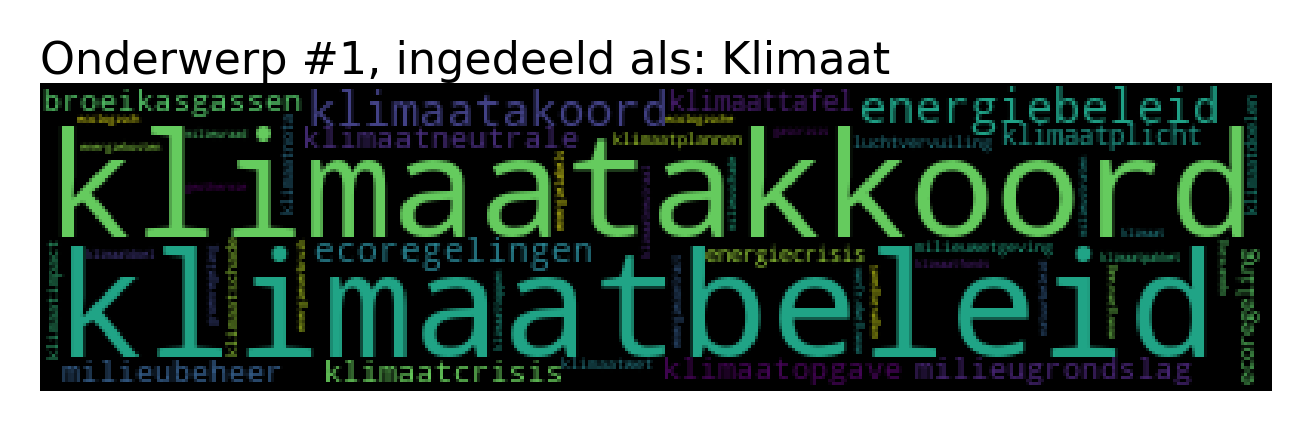
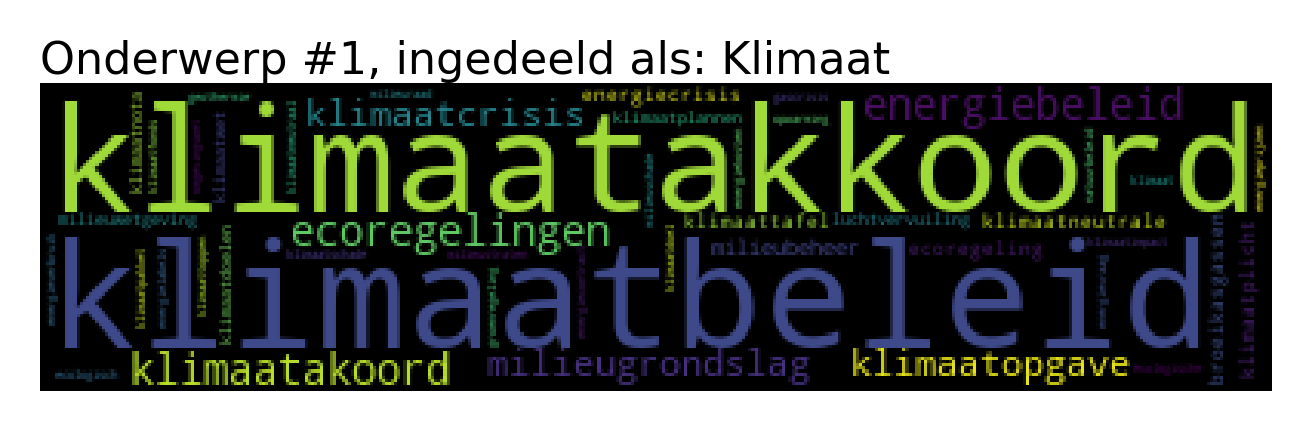
Built site for gh-pages

diff --git a/posts/moties2023/2023-09-23-kamermoties_topics.html b/posts/moties2023/2023-09-23-kamermoties_topics.html
@@ -85,11 +85,15 @@ ga('send', {
 <link rel="stylesheet" href="../../styles.css">
 <meta property="og:title" content="Blog Jesse van Elteren - Tekst analyse van Tweede Kamer moties">
 <meta property="og:description" content="Wie zet wat op de agenda?">
-<meta property="og:image" content="https://jvanelteren.github.io/blog/posts/moties2023/moties_glass.png">
+<meta property="og:image" content="https://jvanelteren.github.io/blog/posts/moties2023/cat_glass.png">
 <meta property="og:site-name" content="Blog Jesse van Elteren">
+<meta property="og:image:height" content="496">
+<meta property="og:image:width" content="800">
 <meta name="twitter:title" content="Blog Jesse van Elteren - Tekst analyse van Tweede Kamer moties">
 <meta name="twitter:description" content="Wie zet wat op de agenda?">
-<meta name="twitter:image" content="https://jvanelteren.github.io/blog/posts/moties2023/moties_glass.png">
+<meta name="twitter:image" content="https://jvanelteren.github.io/blog/posts/moties2023/cat_glass.png">
+<meta name="twitter:image-height" content="496">
+<meta name="twitter:image-width" content="800">
 <meta name="twitter:card" content="summary_large_image">
 </head>
 
@@ -196,27 +200,27 @@ ga('send', {
 <li>Aantal succesvolle moties</li>
 <li>Aantal succesvolle moties per zetel</li>
 </ol>
-<div id="cell-9" class="cell" data-execution_count="62">
-<div class="cell-output cell-output-display" data-execution_count="62">
+<div id="cell-9" class="cell" data-execution_count="110">
+<div class="cell-output cell-output-display" data-execution_count="110">
 
 <style>
-  #altair-viz-73504d512a9747b691b38f76f1c84e54.vega-embed {
+  #altair-viz-6972dd20e3d5451c903cecfc61536758.vega-embed {
     width: 100%;
     display: flex;
   }
 
-  #altair-viz-73504d512a9747b691b38f76f1c84e54.vega-embed details,
-  #altair-viz-73504d512a9747b691b38f76f1c84e54.vega-embed details summary {
+  #altair-viz-6972dd20e3d5451c903cecfc61536758.vega-embed details,
+  #altair-viz-6972dd20e3d5451c903cecfc61536758.vega-embed details summary {
     position: relative;
   }
 </style>
-<div id="altair-viz-73504d512a9747b691b38f76f1c84e54"></div>
+<div id="altair-viz-6972dd20e3d5451c903cecfc61536758"></div>
 <script type="text/javascript">
   var VEGA_DEBUG = (typeof VEGA_DEBUG == "undefined") ? {} : VEGA_DEBUG;
   (function(spec, embedOpt){
     let outputDiv = document.currentScript.previousElementSibling;
-    if (outputDiv.id !== "altair-viz-73504d512a9747b691b38f76f1c84e54") {
-      outputDiv = document.getElementById("altair-viz-73504d512a9747b691b38f76f1c84e54");
+    if (outputDiv.id !== "altair-viz-6972dd20e3d5451c903cecfc61536758") {
+      outputDiv = document.getElementById("altair-viz-6972dd20e3d5451c903cecfc61536758");
     }
     const paths = {
       "vega": "https://cdn.jsdelivr.net/npm/vega@5?noext",
@@ -267,28 +271,28 @@ ga('send', {
 </div>
 </div>
 <p>In bovenstaande grafiek zien we bijvoorbeeld dat op de PvdD de meeste moties indient op Landbouw &amp; Milieu, gevolgd door BBB, D66 en GroenLinks. De standpunten van de partijen kunnen natuurlijk verschillen!</p>
-<p>PVV dient veel moties in op het gebied van asiel. Terwijl de SP op meerdere onderwerpen op 1 staat. Maar ingediend is niet hetzelfde als aangenomen:</p>
-<div id="cell-11" class="cell" data-execution_count="66">
-<div class="cell-output cell-output-display" data-execution_count="66">
+<p>PVV dient veel moties in op het gebied van asiel. Terwijl de SP bij 4 onderwerpen het meeste moties heeft ingediend. Maar ingediend is niet hetzelfde als aangenomen:</p>
+<div id="cell-11" class="cell" data-execution_count="111">
+<div class="cell-output cell-output-display" data-execution_count="111">
 
 <style>
-  #altair-viz-b98af6b8103e42e8bc366b661ac8ecb3.vega-embed {
+  #altair-viz-eb74d616a0cd43da9831fe19471e5248.vega-embed {
     width: 100%;
     display: flex;
   }
 
-  #altair-viz-b98af6b8103e42e8bc366b661ac8ecb3.vega-embed details,
-  #altair-viz-b98af6b8103e42e8bc366b661ac8ecb3.vega-embed details summary {
+  #altair-viz-eb74d616a0cd43da9831fe19471e5248.vega-embed details,
+  #altair-viz-eb74d616a0cd43da9831fe19471e5248.vega-embed details summary {
     position: relative;
   }
 </style>
-<div id="altair-viz-b98af6b8103e42e8bc366b661ac8ecb3"></div>
+<div id="altair-viz-eb74d616a0cd43da9831fe19471e5248"></div>
 <script type="text/javascript">
   var VEGA_DEBUG = (typeof VEGA_DEBUG == "undefined") ? {} : VEGA_DEBUG;
   (function(spec, embedOpt){
     let outputDiv = document.currentScript.previousElementSibling;
-    if (outputDiv.id !== "altair-viz-b98af6b8103e42e8bc366b661ac8ecb3") {
-      outputDiv = document.getElementById("altair-viz-b98af6b8103e42e8bc366b661ac8ecb3");
+    if (outputDiv.id !== "altair-viz-eb74d616a0cd43da9831fe19471e5248") {
+      outputDiv = document.getElementById("altair-viz-eb74d616a0cd43da9831fe19471e5248");
     }
     const paths = {
       "vega": "https://cdn.jsdelivr.net/npm/vega@5?noext",
@@ -339,27 +343,27 @@ ga('send', {
 </div>
 </div>
 <p>Wat betreft het aantal succesvolle moties dan zien we daar ineens vier partijen bovendrijven: CDA, ChristenUnie, D66 en VVD. De regeringspartijen, dat is logisch want die hebben een meerderheid. Nu kijken we naar het aantal succesvolle moties <strong>per zetel</strong></p>
-<div id="cell-14" class="cell" data-execution_count="69">
-<div class="cell-output cell-output-display" data-execution_count="69">
+<div id="cell-14" class="cell" data-execution_count="113">
+<div class="cell-output cell-output-display" data-execution_count="113">
 
 <style>
-  #altair-viz-f05a1fbaed7d4b5b8d5cfe694f275d69.vega-embed {
+  #altair-viz-e45aa36549784837b013b2ac17b937d3.vega-embed {
     width: 100%;
     display: flex;
   }
 
-  #altair-viz-f05a1fbaed7d4b5b8d5cfe694f275d69.vega-embed details,
-  #altair-viz-f05a1fbaed7d4b5b8d5cfe694f275d69.vega-embed details summary {
+  #altair-viz-e45aa36549784837b013b2ac17b937d3.vega-embed details,
+  #altair-viz-e45aa36549784837b013b2ac17b937d3.vega-embed details summary {
     position: relative;
   }
 </style>
-<div id="altair-viz-f05a1fbaed7d4b5b8d5cfe694f275d69"></div>
+<div id="altair-viz-e45aa36549784837b013b2ac17b937d3"></div>
 <script type="text/javascript">
   var VEGA_DEBUG = (typeof VEGA_DEBUG == "undefined") ? {} : VEGA_DEBUG;
   (function(spec, embedOpt){
     let outputDiv = document.currentScript.previousElementSibling;
-    if (outputDiv.id !== "altair-viz-f05a1fbaed7d4b5b8d5cfe694f275d69") {
-      outputDiv = document.getElementById("altair-viz-f05a1fbaed7d4b5b8d5cfe694f275d69");
+    if (outputDiv.id !== "altair-viz-e45aa36549784837b013b2ac17b937d3") {
+      outputDiv = document.getElementById("altair-viz-e45aa36549784837b013b2ac17b937d3");
     }
     const paths = {
       "vega": "https://cdn.jsdelivr.net/npm/vega@5?noext",
@@ -409,32 +413,32 @@ ga('send', {
 </script>
 </div>
 </div>
-<p>Dit overzicht geeft weer hoeveel succesvolle moties een partij er doorheen krijgt per onderwerp per zetel. Het is weer een heel ander beeld: partijen als BBB, CU en DENK doen het goed. Dit zijn natuurlijk ook partijen met weinig zetels.</p>
+<p>Dit overzicht geeft weer hoeveel moties van een partij worden aangenomen per onderwerp per zetel. Het is weer een heel ander beeld: partijen als BBB, CU en DENK doen het goed. Dit zijn natuurlijk ook partijen met weinig zetels.</p>
 </section>
 <section id="waar-richten-de-partijen-zich-op" class="level2">
 <h2 class="anchored" data-anchor-id="waar-richten-de-partijen-zich-op">Waar richten de partijen zich op?</h2>
 <p>In bovenstaande grafieken hebben we de partijen onderling vergeleken. Nu kijken we <strong>per partij</strong> op welk vlak ze het meest actief zijn</p>
-<div id="cell-19" class="cell" data-execution_count="51">
-<div class="cell-output cell-output-display" data-execution_count="51">
+<div id="cell-19" class="cell" data-execution_count="116">
+<div class="cell-output cell-output-display" data-execution_count="116">
 
 <style>
-  #altair-viz-0afc2b414eff49d2bdab02a5f8739904.vega-embed {
+  #altair-viz-3c6126343ba2449181a75af626eced4b.vega-embed {
     width: 100%;
     display: flex;
   }
 
-  #altair-viz-0afc2b414eff49d2bdab02a5f8739904.vega-embed details,
-  #altair-viz-0afc2b414eff49d2bdab02a5f8739904.vega-embed details summary {
+  #altair-viz-3c6126343ba2449181a75af626eced4b.vega-embed details,
+  #altair-viz-3c6126343ba2449181a75af626eced4b.vega-embed details summary {
     position: relative;
   }
 </style>
-<div id="altair-viz-0afc2b414eff49d2bdab02a5f8739904"></div>
+<div id="altair-viz-3c6126343ba2449181a75af626eced4b"></div>
 <script type="text/javascript">
   var VEGA_DEBUG = (typeof VEGA_DEBUG == "undefined") ? {} : VEGA_DEBUG;
   (function(spec, embedOpt){
     let outputDiv = document.currentScript.previousElementSibling;
-    if (outputDiv.id !== "altair-viz-0afc2b414eff49d2bdab02a5f8739904") {
-      outputDiv = document.getElementById("altair-viz-0afc2b414eff49d2bdab02a5f8739904");
+    if (outputDiv.id !== "altair-viz-3c6126343ba2449181a75af626eced4b") {
+      outputDiv = document.getElementById("altair-viz-3c6126343ba2449181a75af626eced4b");
     }
     const paths = {
       "vega": "https://cdn.jsdelivr.net/npm/vega@5?noext",
@@ -480,41 +484,37 @@ ga('send', {
         .catch(showError)
         .then(() => displayChart(vegaEmbed));
     }
-  })({"config": {"view": {"continuousWidth": 300, "continuousHeight": 300}}, "layer": [{"mark": {"type": "circle"}, "encoding": {"color": {"field": "Indienende_partij", "scale": {"domain": ["GroenLinks", "PvdA", "Volt", "PvdD", "BIJ1", "SP", "DENK", "D66", "ChristenUnie", "Omtzigt", "CDA", "VVD", "BBB", "SGP", "JA21", "PVV", "Groep Van Haga", "FVD"], "range": ["#48a641", "#df111a", "#502379", "#006b2d", "#b5b40a", "#e3001b", "#17becf", "#04a438", "#00a5e8", "#4f7cd1", "#5cb957", "#ff7f0e", "#93c01f", "#d86120", "#202e76", "#002759", "brown", "#800000"]}, "type": "nominal"}, "size": {"field": "Percentage", "scale": {"range": [0, 500]}, "type": "quantitative"}, "x": {"field": "Topic", "type": "nominal"}, "y": {"field": "Indienende_partij", "type": "nominal"}}}, {"mark": {"type": "text", "baseline": "middle", "color": "black"}, "encoding": {"text": {"field": "Rank", "type": "nominal"}, "x": {"field": "Topic", "type": "nominal"}, "y": {"field": "Indienende_partij", "type": "nominal"}}}], "data": {"name": "data-73ec7f5232076918ad471e4d29a1e2f6"}, "$schema": "https://vega.github.io/schema/vega-lite/v5.8.0.json", "datasets": {"data-73ec7f5232076918ad471e4d29a1e2f6": [{"Indienende_partij": "BBB", "Topic": "Gezondheidszorg", "Percentage": 0.14285714285714285, "Rank": 2.0}, {"Indienende_partij": "BBB", "Topic": "Landbouw & milieu", "Percentage": 0.27634660421545665, "Rank": 1.0}, {"Indienende_partij": "BBB", "Topic": "Veiligheid", "Percentage": 0.10304449648711944, "Rank": 3.0}, {"Indienende_partij": "BIJ1", "Topic": "Arbeid", "Percentage": 0.144, "Rank": 3.0}, {"Indienende_partij": "BIJ1", "Topic": "Migratie", "Percentage": 0.168, "Rank": 2.0}, {"Indienende_partij": "BIJ1", "Topic": "Veiligheid", "Percentage": 0.2, "Rank": 1.0}, {"Indienende_partij": "CDA", "Topic": "Gezondheidszorg", "Percentage": 0.13949843260188088, "Rank": 1.0}, {"Indienende_partij": "CDA", "Topic": "Onderwijs", "Percentage": 0.10344827586206896, "Rank": 2.0}, {"Indienende_partij": "CDA", "Topic": "Veiligheid", "Percentage": 0.09717868338557993, "Rank": 3.0}, {"Indienende_partij": "ChristenUnie", "Topic": "Financien", "Percentage": 0.11157894736842106, "Rank": 1.0}, {"Indienende_partij": "ChristenUnie", "Topic": "Infrastructuur & water", "Percentage": 0.1031578947368421, "Rank": 2.0}, {"Indienende_partij": "ChristenUnie", "Topic": "Veiligheid", "Percentage": 0.10105263157894737, "Rank": 3.0}, {"Indienende_partij": "D66", "Topic": "Europa", "Percentage": 0.10846560846560846, "Rank": 2.0}, {"Indienende_partij": "D66", "Topic": "Gezondheidszorg", "Percentage": 0.09656084656084656, "Rank": 3.0}, {"Indienende_partij": "D66", "Topic": "Veiligheid", "Percentage": 0.13227513227513227, "Rank": 1.0}, {"Indienende_partij": "DENK", "Topic": "Europa", "Percentage": 0.08481262327416174, "Rank": 3.0}, {"Indienende_partij": "DENK", "Topic": "Migratie", "Percentage": 0.11045364891518737, "Rank": 2.0}, {"Indienende_partij": "DENK", "Topic": "Veiligheid", "Percentage": 0.23668639053254437, "Rank": 1.0}, {"Indienende_partij": "FVD", "Topic": "Asiel", "Percentage": 0.16363636363636364, "Rank": 1.0}, {"Indienende_partij": "FVD", "Topic": "Europa", "Percentage": 0.12727272727272726, "Rank": 3.0}, {"Indienende_partij": "FVD", "Topic": "Gezondheidszorg", "Percentage": 0.15454545454545454, "Rank": 2.0}, {"Indienende_partij": "GroenLinks", "Topic": "Gezondheidszorg", "Percentage": 0.11010558069381599, "Rank": 2.0}, {"Indienende_partij": "GroenLinks", "Topic": "Infrastructuur & water", "Percentage": 0.09653092006033183, "Rank": 3.0}, {"Indienende_partij": "GroenLinks", "Topic": "Klimaat", "Percentage": 0.18099547511312217, "Rank": 1.0}, {"Indienende_partij": "Groep Van Haga", "Topic": "Arbeid", "Percentage": 0.082, "Rank": 3.0}, {"Indienende_partij": "Groep Van Haga", "Topic": "Asiel", "Percentage": 0.236, "Rank": 1.0}, {"Indienende_partij": "Groep Van Haga", "Topic": "Klimaat", "Percentage": 0.152, "Rank": 2.0}, {"Indienende_partij": "JA21", "Topic": "Europa", "Percentage": 0.09813084112149532, "Rank": 3.0}, {"Indienende_partij": "JA21", "Topic": "Klimaat", "Percentage": 0.12149532710280374, "Rank": 2.0}, {"Indienende_partij": "JA21", "Topic": "Migratie", "Percentage": 0.1308411214953271, "Rank": 1.0}, {"Indienende_partij": "Omtzigt", "Topic": "Asiel", "Percentage": 0.08917197452229299, "Rank": 3.0}, {"Indienende_partij": "Omtzigt", "Topic": "Belasting", "Percentage": 0.21656050955414013, "Rank": 1.0}, {"Indienende_partij": "Omtzigt", "Topic": "Klimaat", "Percentage": 0.08917197452229299, "Rank": 3.0}, {"Indienende_partij": "Omtzigt", "Topic": "Veiligheid", "Percentage": 0.10828025477707007, "Rank": 2.0}, {"Indienende_partij": "PVV", "Topic": "Arbeid", "Percentage": 0.0936374549819928, "Rank": 3.0}, {"Indienende_partij": "PVV", "Topic": "Asiel", "Percentage": 0.25570228091236497, "Rank": 1.0}, {"Indienende_partij": "PVV", "Topic": "Gezondheidszorg", "Percentage": 0.11884753901560624, "Rank": 2.0}, {"Indienende_partij": "PvdA", "Topic": "Arbeid", "Percentage": 0.10277324632952692, "Rank": 3.0}, {"Indienende_partij": "PvdA", "Topic": "Klimaat", "Percentage": 0.10440456769983687, "Rank": 2.0}, {"Indienende_partij": "PvdA", "Topic": "Onderwijs", "Percentage": 0.11092985318107668, "Rank": 1.0}, {"Indienende_partij": "PvdD", "Topic": "Infrastructuur & water", "Percentage": 0.1302170283806344, "Rank": 3.0}, {"Indienende_partij": "PvdD", "Topic": "Klimaat", "Percentage": 0.2904841402337229, "Rank": 2.0}, {"Indienende_partij": "PvdD", "Topic": "Landbouw & milieu", "Percentage": 0.29716193656093487, "Rank": 1.0}, {"Indienende_partij": "SGP", "Topic": "Financien", "Percentage": 0.12903225806451613, "Rank": 2.0}, {"Indienende_partij": "SGP", "Topic": "Landbouw & milieu", "Percentage": 0.15770609318996415, "Rank": 1.0}, {"Indienende_partij": "SGP", "Topic": "Veiligheid", "Percentage": 0.0967741935483871, "Rank": 3.0}, {"Indienende_partij": "SP", "Topic": "Arbeid", "Percentage": 0.07982740021574973, "Rank": 3.0}, {"Indienende_partij": "SP", "Topic": "Gezondheidszorg", "Percentage": 0.12297734627831715, "Rank": 2.0}, {"Indienende_partij": "SP", "Topic": "Veiligheid", "Percentage": 0.15426105717367852, "Rank": 1.0}, {"Indienende_partij": "VVD", "Topic": "Europa", "Percentage": 0.10187667560321716, "Rank": 2.0}, {"Indienende_partij": "VVD", "Topic": "Infrastructuur & water", "Percentage": 0.10187667560321716, "Rank": 2.0}, {"Indienende_partij": "VVD", "Topic": "Veiligheid", "Percentage": 0.16353887399463807, "Rank": 1.0}, {"Indienende_partij": "Volt", "Topic": "Europa", "Percentage": 0.3699421965317919, "Rank": 1.0}, {"Indienende_partij": "Volt", "Topic": "Gezondheidszorg", "Percentage": 0.09248554913294797, "Rank": 3.0}, {"Indienende_partij": "Volt", "Topic": "Klimaat", "Percentage": 0.10982658959537572, "Rank": 2.0}]}}, {"mode": "vega-lite"});
+  })({"config": {"view": {"continuousWidth": 300, "continuousHeight": 300}}, "layer": [{"mark": {"type": "circle"}, "encoding": {"color": {"field": "Indienende_partij", "scale": {"domain": ["GroenLinks", "PvdA", "Volt", "PvdD", "BIJ1", "SP", "DENK", "D66", "ChristenUnie", "Omtzigt", "CDA", "VVD", "BBB", "SGP", "JA21", "PVV", "Groep Van Haga", "FVD"], "range": ["#48a641", "#df111a", "#502379", "#006b2d", "#b5b40a", "#e3001b", "#17becf", "#04a438", "#00a5e8", "#4f7cd1", "#5cb957", "#ff7f0e", "#93c01f", "#d86120", "#202e76", "#002759", "brown", "#800000"]}, "type": "nominal"}, "size": {"field": "Percentage", "scale": {"range": [0, 500]}, "type": "quantitative"}, "x": {"field": "Topic", "type": "nominal"}, "y": {"field": "Indienende_partij", "type": "nominal"}}}, {"mark": {"type": "text", "baseline": "middle", "color": "black"}, "encoding": {"text": {"field": "Rank", "type": "nominal"}, "x": {"field": "Topic", "title": "Onderwerp", "type": "nominal"}, "y": {"field": "Indienende_partij", "title": null, "type": "nominal"}}}], "data": {"name": "data-73ec7f5232076918ad471e4d29a1e2f6"}, "$schema": "https://vega.github.io/schema/vega-lite/v5.8.0.json", "datasets": {"data-73ec7f5232076918ad471e4d29a1e2f6": [{"Indienende_partij": "BBB", "Topic": "Gezondheidszorg", "Percentage": 0.14285714285714285, "Rank": 2.0}, {"Indienende_partij": "BBB", "Topic": "Landbouw & milieu", "Percentage": 0.27634660421545665, "Rank": 1.0}, {"Indienende_partij": "BBB", "Topic": "Veiligheid", "Percentage": 0.10304449648711944, "Rank": 3.0}, {"Indienende_partij": "BIJ1", "Topic": "Arbeid", "Percentage": 0.144, "Rank": 3.0}, {"Indienende_partij": "BIJ1", "Topic": "Migratie", "Percentage": 0.168, "Rank": 2.0}, {"Indienende_partij": "BIJ1", "Topic": "Veiligheid", "Percentage": 0.2, "Rank": 1.0}, {"Indienende_partij": "CDA", "Topic": "Gezondheidszorg", "Percentage": 0.13949843260188088, "Rank": 1.0}, {"Indienende_partij": "CDA", "Topic": "Onderwijs", "Percentage": 0.10344827586206896, "Rank": 2.0}, {"Indienende_partij": "CDA", "Topic": "Veiligheid", "Percentage": 0.09717868338557993, "Rank": 3.0}, {"Indienende_partij": "ChristenUnie", "Topic": "Financien", "Percentage": 0.11157894736842106, "Rank": 1.0}, {"Indienende_partij": "ChristenUnie", "Topic": "Infrastructuur & water", "Percentage": 0.1031578947368421, "Rank": 2.0}, {"Indienende_partij": "ChristenUnie", "Topic": "Veiligheid", "Percentage": 0.10105263157894737, "Rank": 3.0}, {"Indienende_partij": "D66", "Topic": "Europa", "Percentage": 0.10846560846560846, "Rank": 2.0}, {"Indienende_partij": "D66", "Topic": "Gezondheidszorg", "Percentage": 0.09656084656084656, "Rank": 3.0}, {"Indienende_partij": "D66", "Topic": "Veiligheid", "Percentage": 0.13227513227513227, "Rank": 1.0}, {"Indienende_partij": "DENK", "Topic": "Europa", "Percentage": 0.08481262327416174, "Rank": 3.0}, {"Indienende_partij": "DENK", "Topic": "Migratie", "Percentage": 0.11045364891518737, "Rank": 2.0}, {"Indienende_partij": "DENK", "Topic": "Veiligheid", "Percentage": 0.23668639053254437, "Rank": 1.0}, {"Indienende_partij": "FVD", "Topic": "Asiel", "Percentage": 0.16363636363636364, "Rank": 1.0}, {"Indienende_partij": "FVD", "Topic": "Europa", "Percentage": 0.12727272727272726, "Rank": 3.0}, {"Indienende_partij": "FVD", "Topic": "Gezondheidszorg", "Percentage": 0.15454545454545454, "Rank": 2.0}, {"Indienende_partij": "GroenLinks", "Topic": "Gezondheidszorg", "Percentage": 0.11010558069381599, "Rank": 2.0}, {"Indienende_partij": "GroenLinks", "Topic": "Infrastructuur & water", "Percentage": 0.09653092006033183, "Rank": 3.0}, {"Indienende_partij": "GroenLinks", "Topic": "Klimaat", "Percentage": 0.18099547511312217, "Rank": 1.0}, {"Indienende_partij": "Groep Van Haga", "Topic": "Arbeid", "Percentage": 0.082, "Rank": 3.0}, {"Indienende_partij": "Groep Van Haga", "Topic": "Asiel", "Percentage": 0.236, "Rank": 1.0}, {"Indienende_partij": "Groep Van Haga", "Topic": "Klimaat", "Percentage": 0.152, "Rank": 2.0}, {"Indienende_partij": "JA21", "Topic": "Europa", "Percentage": 0.09813084112149532, "Rank": 3.0}, {"Indienende_partij": "JA21", "Topic": "Klimaat", "Percentage": 0.12149532710280374, "Rank": 2.0}, {"Indienende_partij": "JA21", "Topic": "Migratie", "Percentage": 0.1308411214953271, "Rank": 1.0}, {"Indienende_partij": "Omtzigt", "Topic": "Asiel", "Percentage": 0.08917197452229299, "Rank": 3.0}, {"Indienende_partij": "Omtzigt", "Topic": "Belasting", "Percentage": 0.21656050955414013, "Rank": 1.0}, {"Indienende_partij": "Omtzigt", "Topic": "Klimaat", "Percentage": 0.08917197452229299, "Rank": 3.0}, {"Indienende_partij": "Omtzigt", "Topic": "Veiligheid", "Percentage": 0.10828025477707007, "Rank": 2.0}, {"Indienende_partij": "PVV", "Topic": "Arbeid", "Percentage": 0.0936374549819928, "Rank": 3.0}, {"Indienende_partij": "PVV", "Topic": "Asiel", "Percentage": 0.25570228091236497, "Rank": 1.0}, {"Indienende_partij": "PVV", "Topic": "Gezondheidszorg", "Percentage": 0.11884753901560624, "Rank": 2.0}, {"Indienende_partij": "PvdA", "Topic": "Arbeid", "Percentage": 0.10277324632952692, "Rank": 3.0}, {"Indienende_partij": "PvdA", "Topic": "Klimaat", "Percentage": 0.10440456769983687, "Rank": 2.0}, {"Indienende_partij": "PvdA", "Topic": "Onderwijs", "Percentage": 0.11092985318107668, "Rank": 1.0}, {"Indienende_partij": "PvdD", "Topic": "Infrastructuur & water", "Percentage": 0.1302170283806344, "Rank": 3.0}, {"Indienende_partij": "PvdD", "Topic": "Klimaat", "Percentage": 0.2904841402337229, "Rank": 2.0}, {"Indienende_partij": "PvdD", "Topic": "Landbouw & milieu", "Percentage": 0.29716193656093487, "Rank": 1.0}, {"Indienende_partij": "SGP", "Topic": "Financien", "Percentage": 0.12903225806451613, "Rank": 2.0}, {"Indienende_partij": "SGP", "Topic": "Landbouw & milieu", "Percentage": 0.15770609318996415, "Rank": 1.0}, {"Indienende_partij": "SGP", "Topic": "Veiligheid", "Percentage": 0.0967741935483871, "Rank": 3.0}, {"Indienende_partij": "SP", "Topic": "Arbeid", "Percentage": 0.07982740021574973, "Rank": 3.0}, {"Indienende_partij": "SP", "Topic": "Gezondheidszorg", "Percentage": 0.12297734627831715, "Rank": 2.0}, {"Indienende_partij": "SP", "Topic": "Veiligheid", "Percentage": 0.15426105717367852, "Rank": 1.0}, {"Indienende_partij": "VVD", "Topic": "Europa", "Percentage": 0.10187667560321716, "Rank": 2.0}, {"Indienende_partij": "VVD", "Topic": "Infrastructuur & water", "Percentage": 0.10187667560321716, "Rank": 2.0}, {"Indienende_partij": "VVD", "Topic": "Veiligheid", "Percentage": 0.16353887399463807, "Rank": 1.0}, {"Indienende_partij": "Volt", "Topic": "Europa", "Percentage": 0.3699421965317919, "Rank": 1.0}, {"Indienende_partij": "Volt", "Topic": "Gezondheidszorg", "Percentage": 0.09248554913294797, "Rank": 3.0}, {"Indienende_partij": "Volt", "Topic": "Klimaat", "Percentage": 0.10982658959537572, "Rank": 2.0}]}}, {"mode": "vega-lite"});
 </script>
 </div>
 </div>
-<p>Als een partij een hele grote bol heeft betekent dit dat de partij zich heel erg richt op dit onderwerp. Zijn er geen grote bollen binnen een partij is de inzet meer over de onderwerpen verspreid. Europa, Landbouw en Milieu en Veiligheid krijgen bij veel partijen veel aandacht.</p>
-</section>
-<section id="stemgedrag-per-onderwerp" class="level2">
-<h2 class="anchored" data-anchor-id="stemgedrag-per-onderwerp">Stemgedrag per onderwerp</h2>
-<p>Dan toch nog eens proberen het stemgedrag te visualiseren. Als de BBB iets indient voor Landbouw &amp; Milieu betekent dit heel iets heel anders dan als de PvdD dat doet. In onderstaande plots staat per onderwerp het stemgedrag gevisualiseerd. Positief of negatief zegt niets, het gaat om partijen die dichtbij of ver weg van elkaar staan. PvdD en VVD vormen meestal de uitersten en verschillen dus het meeste op stemgedrag. Deze grafieken verklaren meestal zo’n 35%-55% van de variatie in het stemgedrag. Let op: het is dus een enorme versimpeling van de werkelijkheid!</p>
+<p>Als een partij een hele grote bol heeft betekent dit dat de partij zich heel erg richt op dit onderwerp. Zoals bijvoorbeeld Volt op Europa. Zijn er geen grote bollen binnen een partij is de inzet meer over de onderwerpen verspreid.</p>
 <p>‘#’ geeft het aantal moties aan en ‘%’ het percentage dat deze visualisatie verklaart. Meestal zien we hetzelfde patroon terug, een aantal keer zien we echt ‘regering tegenover oppositie’ (gezondheidszorg, arbeid, jeugdzorg en belasting).</p>
 </section>
 <section id="stemgedrag-op-klimaat" class="level2">
 <h2 class="anchored" data-anchor-id="stemgedrag-op-klimaat">Stemgedrag op klimaat</h2>
 <p>Hieronder zie je het stemgedrag op klimaat. De afstand tussen de partijen geeft aan hoeveel ze verschillen. Hiermee kunnen we ~40% van het stemgedrag verklaren.</p>
-<div id="cell-32" class="cell" data-execution_count="97">
-<div class="cell-output cell-output-display" data-execution_count="97">
+<div id="cell-31" class="cell" data-execution_count="124">
+<div class="cell-output cell-output-display" data-execution_count="124">
 
 <style>
-  #altair-viz-7e134438f6764b7b81bccdfcee8e6abf.vega-embed {
+  #altair-viz-71635595fa86477686c4265a156f0910.vega-embed {
     width: 100%;
     display: flex;
   }
 
-  #altair-viz-7e134438f6764b7b81bccdfcee8e6abf.vega-embed details,
-  #altair-viz-7e134438f6764b7b81bccdfcee8e6abf.vega-embed details summary {
+  #altair-viz-71635595fa86477686c4265a156f0910.vega-embed details,
+  #altair-viz-71635595fa86477686c4265a156f0910.vega-embed details summary {
     position: relative;
   }
 </style>
-<div id="altair-viz-7e134438f6764b7b81bccdfcee8e6abf"></div>
+<div id="altair-viz-71635595fa86477686c4265a156f0910"></div>
 <script type="text/javascript">
   var VEGA_DEBUG = (typeof VEGA_DEBUG == "undefined") ? {} : VEGA_DEBUG;
   (function(spec, embedOpt){
     let outputDiv = document.currentScript.previousElementSibling;
-    if (outputDiv.id !== "altair-viz-7e134438f6764b7b81bccdfcee8e6abf") {
-      outputDiv = document.getElementById("altair-viz-7e134438f6764b7b81bccdfcee8e6abf");
+    if (outputDiv.id !== "altair-viz-71635595fa86477686c4265a156f0910") {
+      outputDiv = document.getElementById("altair-viz-71635595fa86477686c4265a156f0910");
     }
     const paths = {
       "vega": "https://cdn.jsdelivr.net/npm/vega@5?noext",
@@ -560,32 +560,32 @@ ga('send', {
         .catch(showError)
         .then(() => displayChart(vegaEmbed));
     }
-  })({"config": {"view": {"continuousWidth": 300, "continuousHeight": 300}}, "data": {"name": "data-c745429bedc8b5ff5d1d971c34e82bc5"}, "mark": {"type": "bar"}, "encoding": {"color": {"field": "partij", "legend": null, "scale": {"domain": ["GroenLinks", "PvdA", "Volt", "PvdD", "BIJ1", "SP", "DENK", "D66", "ChristenUnie", "Omtzigt", "CDA", "VVD", "BBB", "SGP", "JA21", "PVV", "Groep Van Haga", "FVD"], "range": ["#48a641", "#df111a", "#502379", "#006b2d", "#b5b40a", "#e3001b", "#17becf", "#04a438", "#00a5e8", "#4f7cd1", "#5cb957", "#ff7f0e", "#93c01f", "#d86120", "#202e76", "#002759", "brown", "#800000"]}, "type": "nominal"}, "x": {"field": "partij", "sort": {"field": "x", "order": "descending"}, "title": "Klimaat #925 41%", "type": "nominal"}, "y": {"axis": null, "field": "x", "type": "quantitative"}}, "height": 75.0, "width": 300.0, "$schema": "https://vega.github.io/schema/vega-lite/v5.8.0.json", "datasets": {"data-c745429bedc8b5ff5d1d971c34e82bc5": [{"x": -10.801375597233964, "partij": "FVD"}, {"x": -9.290601331636903, "partij": "Groep Van Haga"}, {"x": -9.07061166781258, "partij": "JA21"}, {"x": -8.968012644436696, "partij": "PVV"}, {"x": -0.7428051778703004, "partij": "BBB"}, {"x": -0.5231884965728915, "partij": "SGP"}, {"x": -0.08965983349712303, "partij": "VVD"}, {"x": 0.9094516347650528, "partij": "CDA"}, {"x": 2.4929118089560305, "partij": "Omtzigt"}, {"x": 3.9572280157030884, "partij": "ChristenUnie"}, {"x": 4.950098308791752, "partij": "D66"}, {"x": 9.509766928344568, "partij": "DENK"}, {"x": 10.658935442297755, "partij": "SP"}, {"x": 11.540307371409094, "partij": "BIJ1"}, {"x": 12.846943778449608, "partij": "Volt"}, {"x": 13.273507325893705, "partij": "PvdD"}, {"x": 14.05269381101273, "partij": "PvdA"}, {"x": 14.066491201574955, "partij": "GroenLinks"}]}}, {"mode": "vega-lite"});
+  })({"config": {"view": {"continuousWidth": 300, "continuousHeight": 300}}, "data": {"name": "data-e42ee0aa1f3f2e20e15d68e5caadb77f"}, "mark": {"type": "bar"}, "encoding": {"color": {"field": "partij", "legend": null, "scale": {"domain": ["GroenLinks", "PvdA", "Volt", "PvdD", "BIJ1", "SP", "DENK", "D66", "ChristenUnie", "Omtzigt", "CDA", "VVD", "BBB", "SGP", "JA21", "PVV", "Groep Van Haga", "FVD"], "range": ["#48a641", "#df111a", "#502379", "#006b2d", "#b5b40a", "#e3001b", "#17becf", "#04a438", "#00a5e8", "#4f7cd1", "#5cb957", "#ff7f0e", "#93c01f", "#d86120", "#202e76", "#002759", "brown", "#800000"]}, "type": "nominal"}, "x": {"field": "partij", "sort": {"field": "x", "order": "descending"}, "title": "Klimaat #925 41%", "type": "nominal"}, "y": {"axis": null, "field": "x", "type": "quantitative"}}, "height": 75.0, "width": 300.0, "$schema": "https://vega.github.io/schema/vega-lite/v5.8.0.json", "datasets": {"data-e42ee0aa1f3f2e20e15d68e5caadb77f": [{"x": -10.801375597263714, "partij": "FVD"}, {"x": -9.290601331980554, "partij": "Groep Van Haga"}, {"x": -9.070611667512644, "partij": "JA21"}, {"x": -8.968012644498534, "partij": "PVV"}, {"x": -0.7428051780682754, "partij": "BBB"}, {"x": -0.5231884966205405, "partij": "SGP"}, {"x": -0.08965983333763194, "partij": "VVD"}, {"x": 0.9094516348702877, "partij": "CDA"}, {"x": 2.492911808692284, "partij": "Omtzigt"}, {"x": 3.957228015428244, "partij": "ChristenUnie"}, {"x": 4.950098308516523, "partij": "D66"}, {"x": 9.509766928347643, "partij": "DENK"}, {"x": 10.658935442451142, "partij": "SP"}, {"x": 11.5403073717733, "partij": "BIJ1"}, {"x": 12.846943778876783, "partij": "Volt"}, {"x": 13.273507324990504, "partij": "PvdD"}, {"x": 14.052693810966485, "partij": "PvdA"}, {"x": 14.066491201551656, "partij": "GroenLinks"}]}}, {"mode": "vega-lite"});
 </script>
 </div>
 </div>
 <p>Als we er nog een tweede as bij zetten kunnen we 60% van de variatie verklaren.</p>
-<div id="cell-34" class="cell" data-execution_count="98">
-<div class="cell-output cell-output-display" data-execution_count="98">
+<div id="cell-33" class="cell" data-execution_count="125">
+<div class="cell-output cell-output-display" data-execution_count="125">
 
 <style>
-  #altair-viz-c8f03e7b5b4a4b1c8ef50424a4795fce.vega-embed {
+  #altair-viz-79963bc88548465cb2335b91b770a4da.vega-embed {
     width: 100%;
     display: flex;
   }
 
-  #altair-viz-c8f03e7b5b4a4b1c8ef50424a4795fce.vega-embed details,
-  #altair-viz-c8f03e7b5b4a4b1c8ef50424a4795fce.vega-embed details summary {
+  #altair-viz-79963bc88548465cb2335b91b770a4da.vega-embed details,
+  #altair-viz-79963bc88548465cb2335b91b770a4da.vega-embed details summary {
     position: relative;
   }
 </style>
-<div id="altair-viz-c8f03e7b5b4a4b1c8ef50424a4795fce"></div>
+<div id="altair-viz-79963bc88548465cb2335b91b770a4da"></div>
 <script type="text/javascript">
   var VEGA_DEBUG = (typeof VEGA_DEBUG == "undefined") ? {} : VEGA_DEBUG;
   (function(spec, embedOpt){
     let outputDiv = document.currentScript.previousElementSibling;
-    if (outputDiv.id !== "altair-viz-c8f03e7b5b4a4b1c8ef50424a4795fce") {
-      outputDiv = document.getElementById("altair-viz-c8f03e7b5b4a4b1c8ef50424a4795fce");
+    if (outputDiv.id !== "altair-viz-79963bc88548465cb2335b91b770a4da") {
+      outputDiv = document.getElementById("altair-viz-79963bc88548465cb2335b91b770a4da");
     }
     const paths = {
       "vega": "https://cdn.jsdelivr.net/npm/vega@5?noext",
@@ -631,7 +631,7 @@ ga('send', {
         .catch(showError)
         .then(() => displayChart(vegaEmbed));
     }
-  })({"config": {"view": {"continuousWidth": 300, "continuousHeight": 300, "strokeWidth": 1}, "axis": {"grid": false}}, "layer": [{"mark": {"type": "point"}, "encoding": {"color": {"field": "partij", "legend": null, "scale": {"domain": ["GroenLinks", "PvdA", "Volt", "PvdD", "BIJ1", "SP", "DENK", "D66", "ChristenUnie", "Omtzigt", "CDA", "VVD", "BBB", "SGP", "JA21", "PVV", "Groep Van Haga", "FVD"], "range": ["#48a641", "#df111a", "#502379", "#006b2d", "#b5b40a", "#e3001b", "#17becf", "#04a438", "#00a5e8", "#4f7cd1", "#5cb957", "#ff7f0e", "#93c01f", "#d86120", "#202e76", "#002759", "brown", "#800000"]}, "type": "nominal"}, "tooltip": [{"field": "partij", "type": "nominal"}], "x": {"axis": null, "field": "x", "type": "quantitative"}, "y": {"axis": null, "field": "y", "type": "quantitative"}}}, {"mark": {"type": "text", "align": "left", "baseline": "middle", "dx": 4.15280783237474, "dy": 9.375297516644297}, "encoding": {"color": {"field": "partij", "legend": null, "scale": {"domain": ["GroenLinks", "PvdA", "Volt", "PvdD", "BIJ1", "SP", "DENK", "D66", "ChristenUnie", "Omtzigt", "CDA", "VVD", "BBB", "SGP", "JA21", "PVV", "Groep Van Haga", "FVD"], "range": ["#48a641", "#df111a", "#502379", "#006b2d", "#b5b40a", "#e3001b", "#17becf", "#04a438", "#00a5e8", "#4f7cd1", "#5cb957", "#ff7f0e", "#93c01f", "#d86120", "#202e76", "#002759", "brown", "#800000"]}, "type": "nominal"}, "text": {"field": "partij", "type": "nominal"}, "tooltip": [{"field": "partij", "type": "nominal"}], "x": {"axis": null, "field": "x", "type": "quantitative"}, "y": {"axis": null, "field": "y", "type": "quantitative"}}, "title": "Welke partijen lijken op elkaar"}], "data": {"name": "data-e933c1925dfa9779328996b052add284"}, "height": 183.80657797038097, "width": 369.93166391072447, "$schema": "https://vega.github.io/schema/vega-lite/v5.8.0.json", "datasets": {"data-e933c1925dfa9779328996b052add284": [{"x": -10.80137516233103, "y": -5.349889770914993, "partij": "FVD"}, {"x": -9.290601023635965, "y": -3.0514273500283338, "partij": "Groep Van Haga"}, {"x": -9.070612349246698, "y": -4.52319848205094, "partij": "JA21"}, {"x": -8.968012713202507, "y": -6.153232450071658, "partij": "PVV"}, {"x": -0.7428050200671121, "y": -4.181296431913538, "partij": "BBB"}, {"x": -0.5231891211587616, "y": 4.040343790391255, "partij": "SGP"}, {"x": -0.08966050863882824, "y": 10.502864569963833, "partij": "VVD"}, {"x": 0.9094511639724003, "y": 10.837112418030527, "partij": "CDA"}, {"x": 2.4929123410937004, "y": 1.3319177239919973, "partij": "Omtzigt"}, {"x": 3.9572286732022093, "y": 9.752635017553587, "partij": "ChristenUnie"}, {"x": 4.950098862388991, "y": 9.911609357658271, "partij": "D66"}, {"x": 9.509766667004417, "y": -1.750680899726299, "partij": "DENK"}, {"x": 10.658935250147847, "y": -5.615759103603096, "partij": "SP"}, {"x": 11.540307293750532, "y": -3.221243747108108, "partij": "BIJ1"}, {"x": 12.846944755506676, "y": -2.012140594626092, "partij": "Volt"}, {"x": 13.273507307502076, "y": -5.312001879550295, "partij": "PvdD"}, {"x": 14.052693267743296, "y": -2.507804928325405, "partij": "PvdA"}, {"x": 14.06649074152881, "y": -2.697807239670689, "partij": "GroenLinks"}]}}, {"mode": "vega-lite"});
+  })({"config": {"view": {"continuousWidth": 300, "continuousHeight": 300, "strokeWidth": 1}, "axis": {"grid": false}}, "layer": [{"mark": {"type": "point"}, "encoding": {"color": {"field": "partij", "legend": null, "scale": {"domain": ["GroenLinks", "PvdA", "Volt", "PvdD", "BIJ1", "SP", "DENK", "D66", "ChristenUnie", "Omtzigt", "CDA", "VVD", "BBB", "SGP", "JA21", "PVV", "Groep Van Haga", "FVD"], "range": ["#48a641", "#df111a", "#502379", "#006b2d", "#b5b40a", "#e3001b", "#17becf", "#04a438", "#00a5e8", "#4f7cd1", "#5cb957", "#ff7f0e", "#93c01f", "#d86120", "#202e76", "#002759", "brown", "#800000"]}, "type": "nominal"}, "tooltip": [{"field": "partij", "type": "nominal"}], "x": {"axis": null, "field": "x", "type": "quantitative"}, "y": {"axis": null, "field": "y", "type": "quantitative"}}}, {"mark": {"type": "text", "align": "left", "baseline": "middle", "dx": 4.395703260250982, "dy": 0.10298307685899011}, "encoding": {"color": {"field": "partij", "legend": null, "scale": {"domain": ["GroenLinks", "PvdA", "Volt", "PvdD", "BIJ1", "SP", "DENK", "D66", "ChristenUnie", "Omtzigt", "CDA", "VVD", "BBB", "SGP", "JA21", "PVV", "Groep Van Haga", "FVD"], "range": ["#48a641", "#df111a", "#502379", "#006b2d", "#b5b40a", "#e3001b", "#17becf", "#04a438", "#00a5e8", "#4f7cd1", "#5cb957", "#ff7f0e", "#93c01f", "#d86120", "#202e76", "#002759", "brown", "#800000"]}, "type": "nominal"}, "text": {"field": "partij", "type": "nominal"}, "tooltip": [{"field": "partij", "type": "nominal"}], "x": {"axis": null, "field": "x", "type": "quantitative"}, "y": {"axis": null, "field": "y", "type": "quantitative"}}, "title": "Welke partijen lijken op elkaar"}], "data": {"name": "data-89e16735ab2bcade95d806e9a19a5a15"}, "height": 183.8065780596394, "width": 369.9316639106214, "$schema": "https://vega.github.io/schema/vega-lite/v5.8.0.json", "datasets": {"data-89e16735ab2bcade95d806e9a19a5a15": [{"x": -10.801375921304645, "y": -5.349936225672224, "partij": "FVD"}, {"x": -9.29060062445418, "y": -3.0514531704093297, "partij": "Groep Van Haga"}, {"x": -9.070613256584291, "y": -4.523148180372923, "partij": "JA21"}, {"x": -8.968012463265323, "y": -6.153218899651218, "partij": "PVV"}, {"x": -0.7428049173452642, "y": -4.181314294768458, "partij": "BBB"}, {"x": -0.5231880614498303, "y": 4.040406284936263, "partij": "SGP"}, {"x": -0.08966056345950069, "y": 10.502927993840501, "partij": "VVD"}, {"x": 0.9094508136585722, "y": 10.837139646266635, "partij": "CDA"}, {"x": 2.492911911920274, "y": 1.3318696454924703, "partij": "Omtzigt"}, {"x": 3.9572279755347703, "y": 9.752530484457758, "partij": "ChristenUnie"}, {"x": 4.950098858246478, "y": 9.911600272218958, "partij": "D66"}, {"x": 9.509767428077524, "y": -1.7506535633591094, "partij": "DENK"}, {"x": 10.658933350752726, "y": -5.615753200387199, "partij": "SP"}, {"x": 11.540306626637811, "y": -3.2212358665825267, "partij": "BIJ1"}, {"x": 12.846941226829383, "y": -2.012213947123017, "partij": "Volt"}, {"x": 13.273509657031633, "y": -5.312002588412885, "partij": "PvdD"}, {"x": 14.052694054207457, "y": -2.507769288891957, "partij": "PvdA"}, {"x": 14.066491334030424, "y": -2.6977751015817293, "partij": "GroenLinks"}]}}, {"mode": "vega-lite"});
 </script>
 </div>
 </div>
@@ -639,7 +639,7 @@ ga('send', {
 <p>Voor alle onderwerpen heb ik <a href="https://stemvinder.ew.r.appspot.com/">de MotieMachine</a> gemaakt. Hier staan alle 72 onderwerpen in, inclusief een mogelijkheid om de moties door te lezen. Veel plezier ermee!</p>
 </section>
 <section id="bijlage-1-alle-72-onderwerpen-die-in-de-motiemachine-staan" class="level2">
-<h2 class="anchored" data-anchor-id="bijlage-1-alle-72-onderwerpen-die-in-de-motiemachine-staan">Bijlage 1: alle 72 onderwerpen die in de motiemachine staan</h2>
+<h2 class="anchored" data-anchor-id="bijlage-1-alle-72-onderwerpen-die-in-de-motiemachine-staan">Bijlage 1: Alle 72 onderwerpen die in de MotieMachine staan</h2>
 <ul>
 <li>[‘landbouwbeleid’ ‘landbouw’ ‘landbouwsector’ ‘landbouwgronden’], 479 moties</li>
 <li>[‘europe’ ‘europees’ ‘eurolanden’ ‘europa’], 371 moties</li>
@@ -727,7 +727,7 @@ ga('send', {
 </section>
 <section id="bijlage-2-wordcloud-van-de-14-onderwerpen" class="level2">
 <h2 class="anchored" data-anchor-id="bijlage-2-wordcloud-van-de-14-onderwerpen">Bijlage 2: Wordcloud van de 14 onderwerpen</h2>
-<div id="cell-43" class="cell" data-execution_count="102">
+<div id="cell-42" class="cell" data-execution_count="129">
 <div class="cell-output cell-output-display">
 <p><img src="2023-09-23-kamermoties_topics_files/figure-html/cell-26-output-1.png" class="img-fluid"></p>
 </div>

diff --git a/index.html b/index.html
@@ -196,7 +196,7 @@ ga('send', {
 
 <div class="quarto-listing quarto-listing-container-grid" id="listing-listing">
 <div class="list grid quarto-listing-cols-3">
-<div class="g-col-1" data-index="0" data-categories="visualisation,app,ai" data-listing-date-sort="1694383200000" data-listing-file-modified-sort="1695471094773" data-listing-date-modified-sort="NaN" data-listing-reading-time-sort="6">
+<div class="g-col-1" data-index="0" data-categories="visualisation,app,ai" data-listing-date-sort="1694383200000" data-listing-file-modified-sort="1695471816959" data-listing-date-modified-sort="NaN" data-listing-reading-time-sort="6">
 <a href="./posts/moties2023/2023-09-11-kamermoties_topics.html" class="quarto-grid-link">
 <div class="quarto-grid-item card h-100 card-left">
 <p class="card-img-top">
